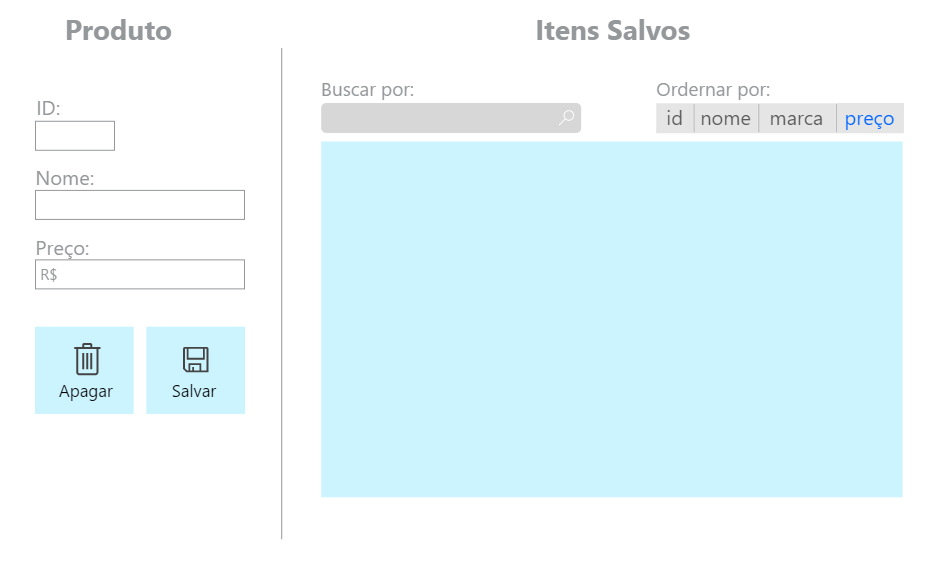
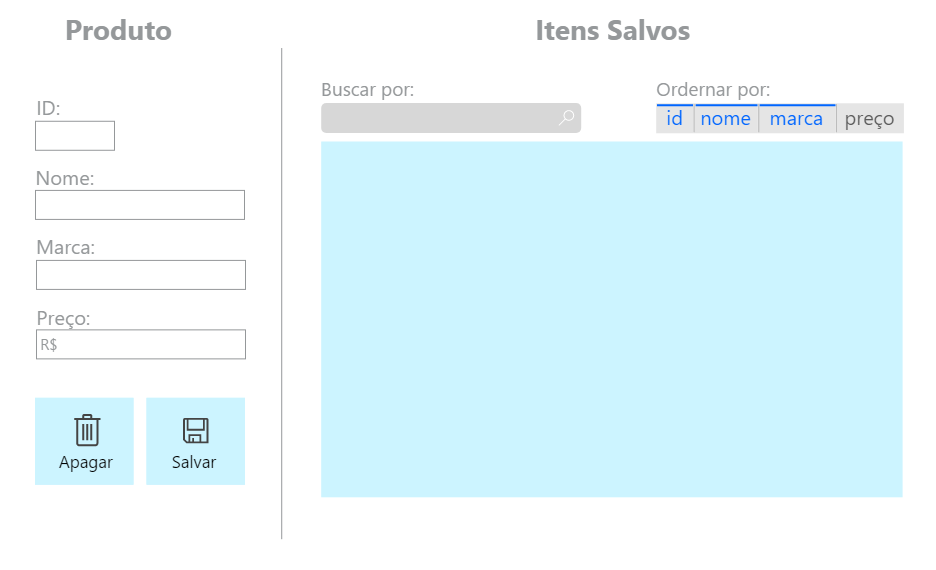
Criada tabela na UI e alimentada com dados da tabela do banco

Changed region(s): [[0.031, 0.5368, 0.2788, 0.8649], [0.7126, 0.1789, 0.9605, 0.2386], [0.031, 0.4175, 0.2479, 0.507]]

diff --git a/OndeComprar/src/interfaces/IRepositorioProduto.java b/OndeComprar/src/interfaces/IRepositorioProduto.java
@@ -2,10 +2,17 @@ package interfaces;
 
 import programa.Produto;
 
+
+import java.sql.ResultSet;
+import java.util.List;
+
+import javax.swing.table.TableModel;
+
 public interface IRepositorioProduto {
 	public void listarProdutos();
 	public void listarProdutos(String order);
 	public Produto buscarProduto(int id);
+	public TableModel listarProdutosTabela(String order);
 	public void inserirProduto(Produto produto);
 	public void atualizarProduto(Produto produto);
 	public void apagarProduto(int id);
